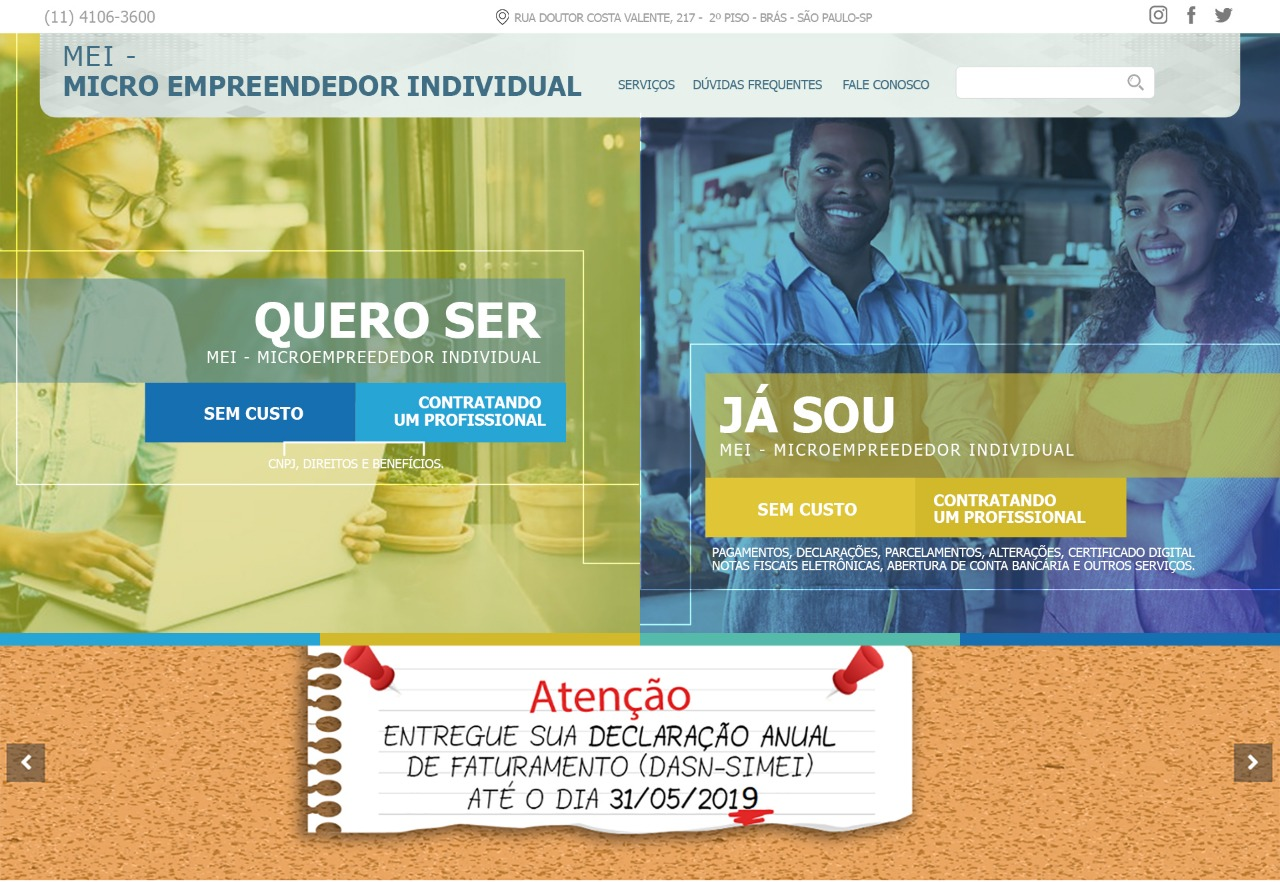
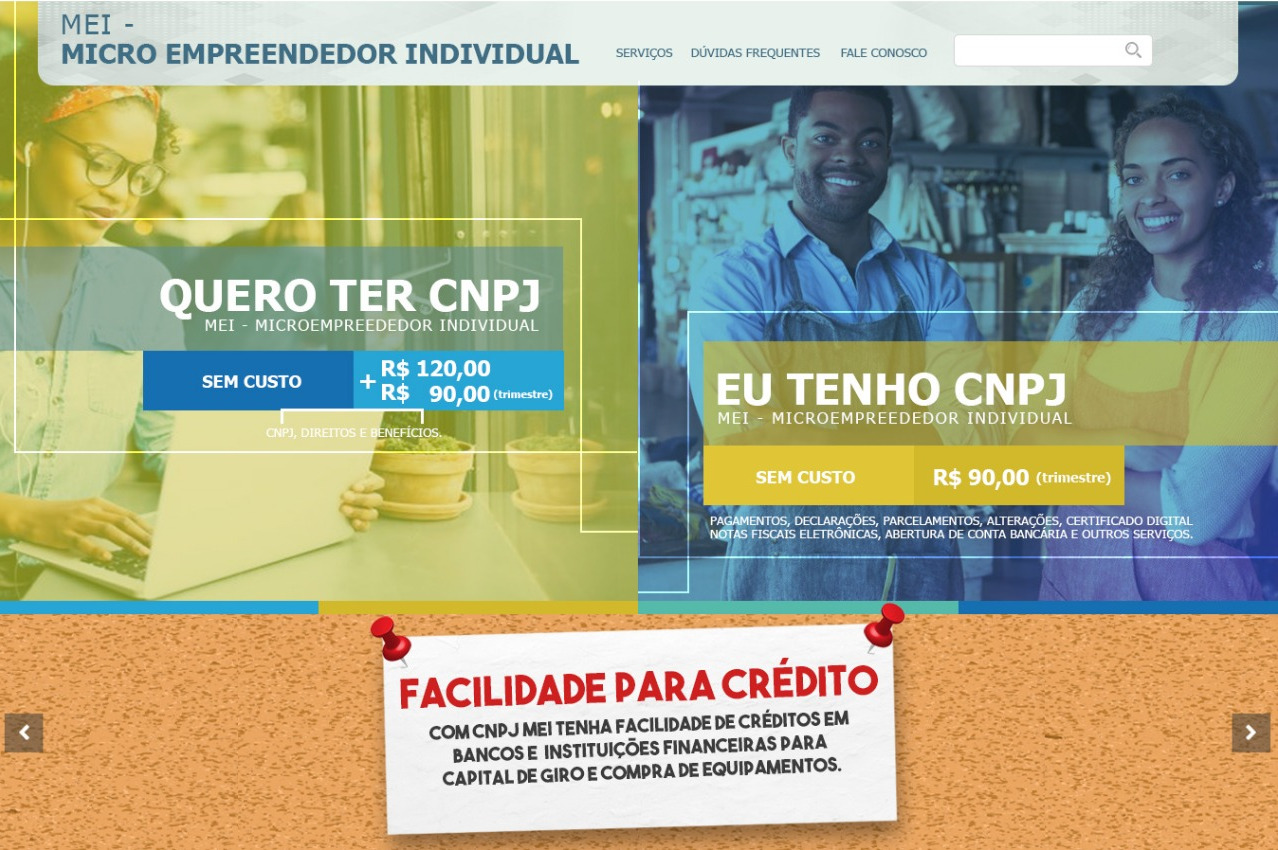
whatsapp

diff --git a/index.html b/index.html
@@ -19,14 +19,26 @@
 <body>
   <div class="container-fluid">
       <div class="row justify-content-center ">
-        <div class="col-md-3 col-sm-12 text-left text-center-sm">
-            (11) 4106-3600
+        
+        <div class="col-md-6 col-sm-12 text-right text-center-sm text-grey text-header">
+          <i class="fas fa-map-marker-alt"></i> RUA BRESSER, 1235 - BRÁS - SÃO PAULO-SP
         </div>
-        <div class="col-md-5 col-sm-12 text-center text-center-sm">
-          <i class="fas fa-map-marker-alt"></i> RUA DOUTOR COSTA VALENTE, 217 - 2° PISO - BRÁS - SÃO PAULO
+        <div class="col-2 text-right ">
+
+            <a class=" link-whatsapp btn" href="https://web.whatsapp.com/send?phone=551141063600">
+              <span class="">
+                  <i class="text-success social-icon text-success fab fa-whatsapp"></i> <span class="text-grey">(11) 4106-3600</span>
+              </span>
+            </a>
+
+
+
+           
+           
         </div>
-        <div class="col-md-2 col-sm-12 text-right text-center-sm">
-            <p class="social-icon">
+        <div class="col-md-2 col-sm-12 text-right text-center-sm text-grey">       
+            <p class="social-icon ">
+            
             <i class="fab fa-instagram"></i>
             
             <i class="fab fa-facebook-square"></i>          
@@ -55,6 +67,8 @@
     crossorigin="anonymous"></script>
   <script src="https://stackpath.bootstrapcdn.com/bootstrap/4.1.3/js/bootstrap.min.js" integrity="sha384-ChfqqxuZUCnJSK3+MXmPNIyE6ZbWh2IMqE241rYiqJxyMiZ6OW/JmZQ5stwEULTy"
     crossorigin="anonymous"></script>
+
+    <script src="action.js"></script>
 </body>
 
 </html>

diff --git a/action.js b/action.js
@@ -1,0 +1,21 @@
+
+function isMobile()
+{
+var userAgent = navigator.userAgent.toLowerCase();
+if( userAgent.search(/(android|avantgo|blackberry|bolt|boost|cricket|docomo|fone|hiptop|mini|mobi|palm|phone|pie|tablet|up\.browser|up\.link|webos|wos)/i)!= -1 )
+  return true;
+}
+
+$isMobile = isMobile();
+
+$(document).ready(function(){
+if($isMobile == true){  
+ $(".link-whatsapp").attr("href", "whatsapp://send?phone=551141063600");         
+}else{
+ $(".link-whatsapp").attr("href", "https://web.whatsapp.com/send?phone=551141063600"); 
+}
+});
+
+$(document).ready(function() {
+  $('#ExemploModalCentralizado').modal('show');
+})

diff --git a/style.css b/style.css
@@ -1,6 +1,14 @@
+.text-grey {
+    
+    padding-top: 5px;
+}
 
-
-
+.text-header{
+    margin-top: 5px;
+}
+.text-grey{
+    color:grey;
+}
 .row-space-top{
     margin-top: 65px;
 }
